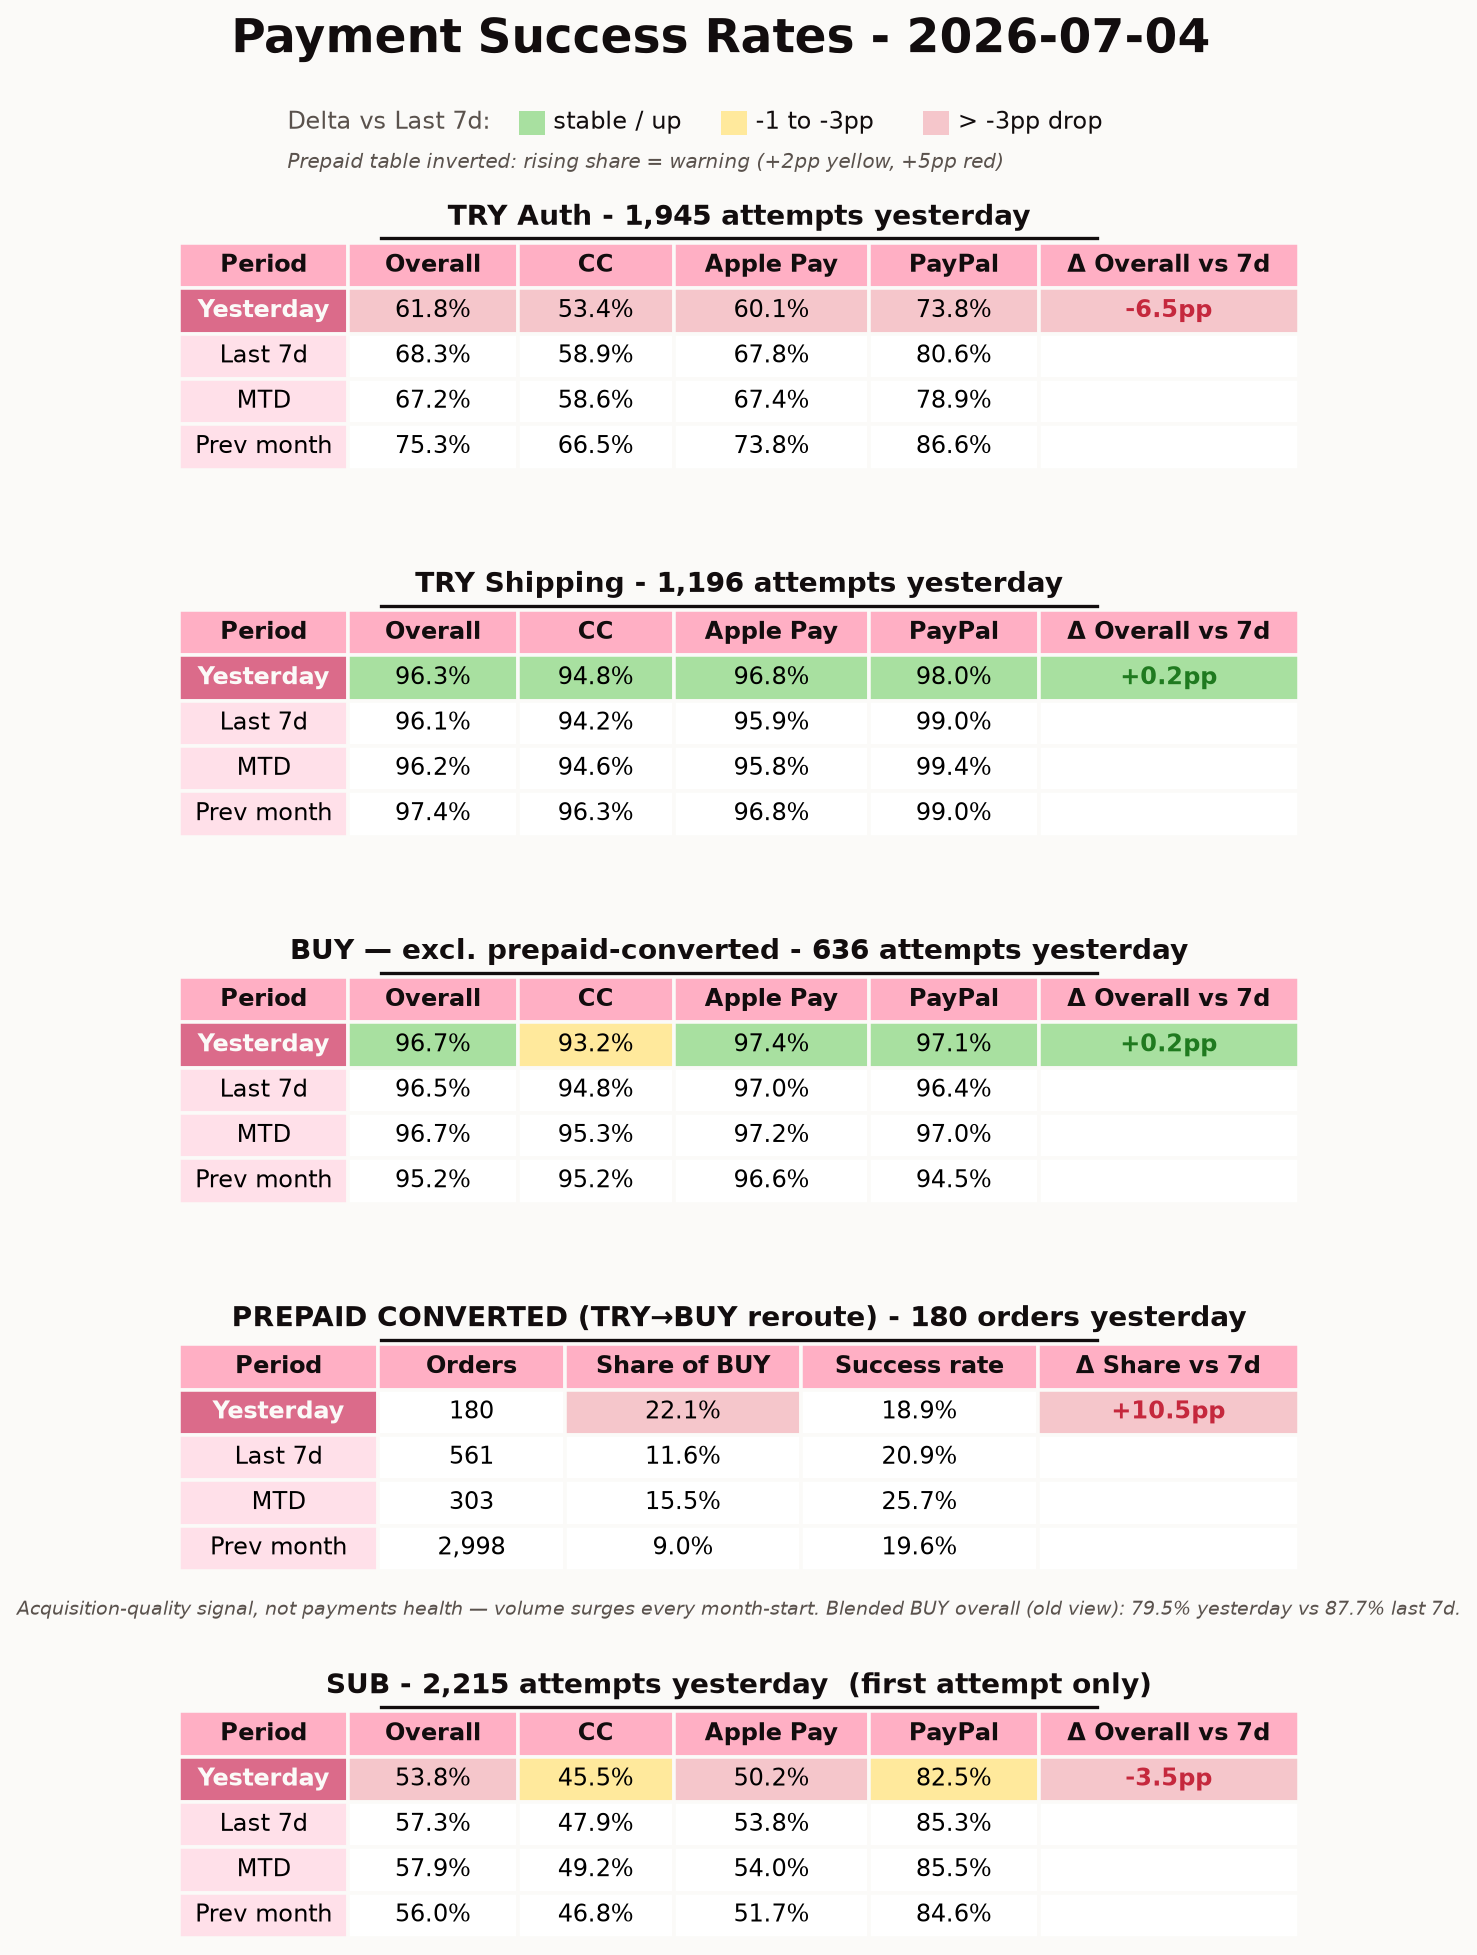
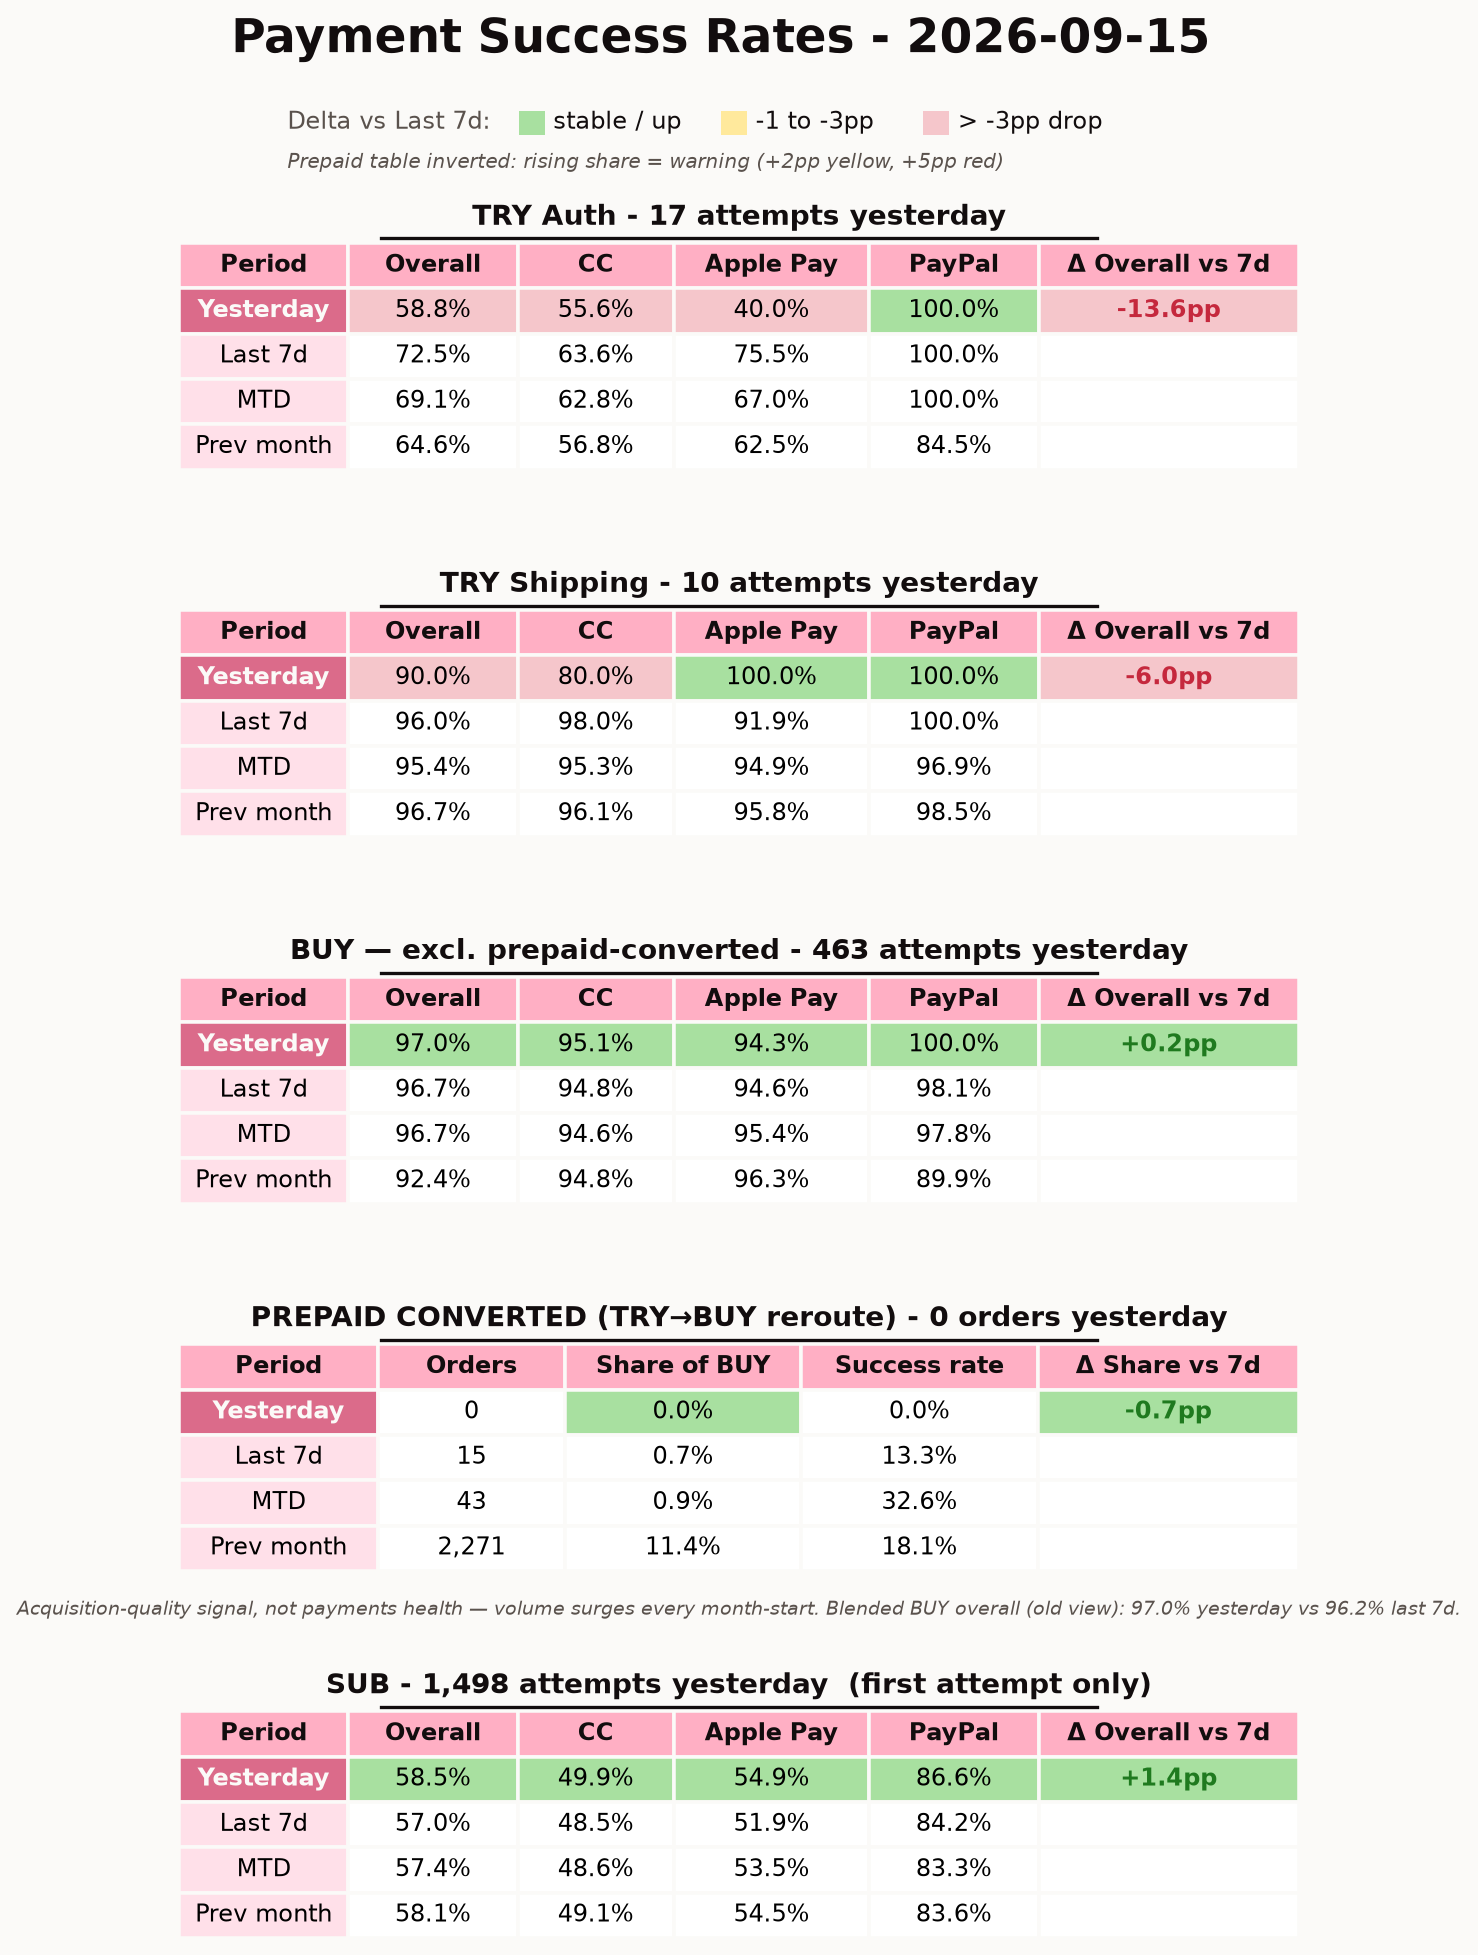
Fix crash when a period has zero prepaid-converted orders (#102)
* Fix crash when a period has zero prepaid-converted orders

BigQuery's LEFT JOIN yields NULL (not 0) for Prepaid_Total/Rate/Share
when no prepaid-converted orders exist in a period, which crashed the
PNG render on days with genuinely zero prepaid-converted volume.

Claude-Session: https://claude.ai/code/session_015DXZYcUVpUPevSTw2cAqG6

* Daily payments report — 2026-09-15

---------

diff --git a/run_daily_payments.py b/run_daily_payments.py
@@ -250,6 +250,10 @@ def parse_rows(raw_rows: list) -> dict:
     out = {}
     for r in raw_rows:
         period = PERIOD_FROM_KEY.get(r.get("Period"), r.get("Period"))
+        # No prepaid-converted orders that period -> BQ LEFT JOIN yields NULL, not 0.
+        for key in ("Prepaid_Total", "Prepaid_Rate", "Prepaid_Share"):
+            if r.get(key) is None:
+                r[key] = 0
         out[period] = r
     missing = set(PERIODS) - set(out)
     if missing:
